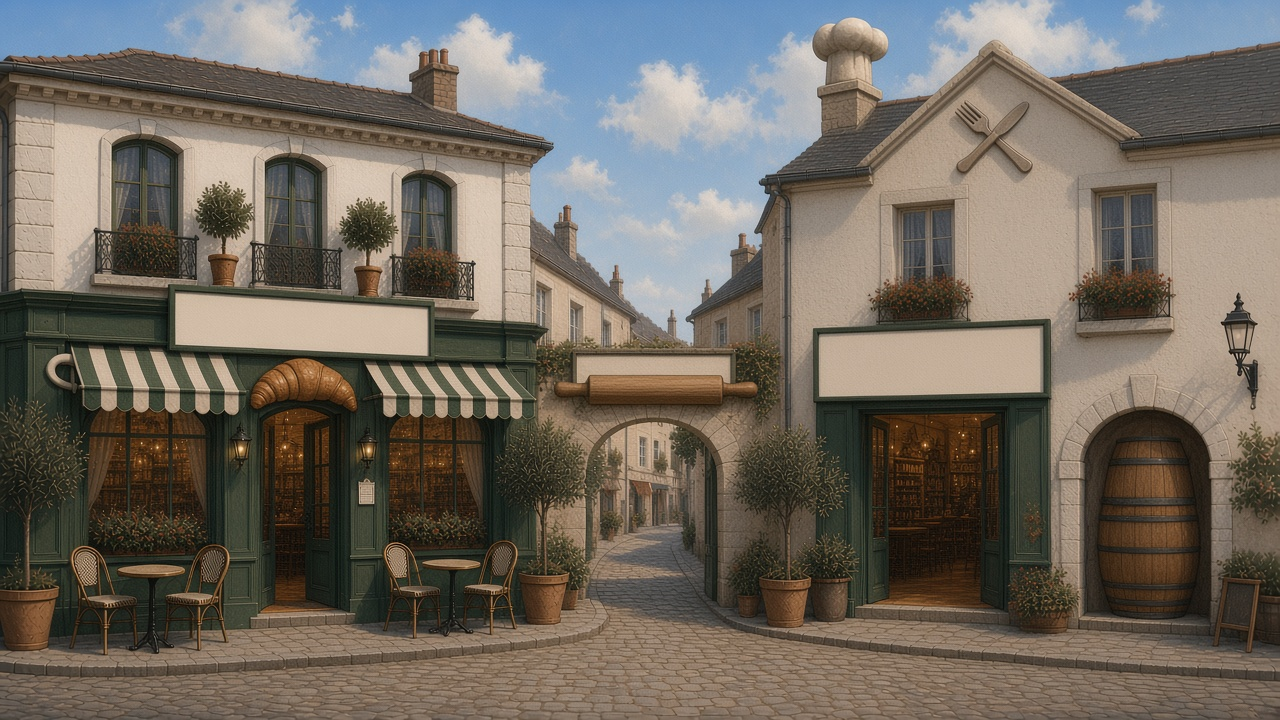
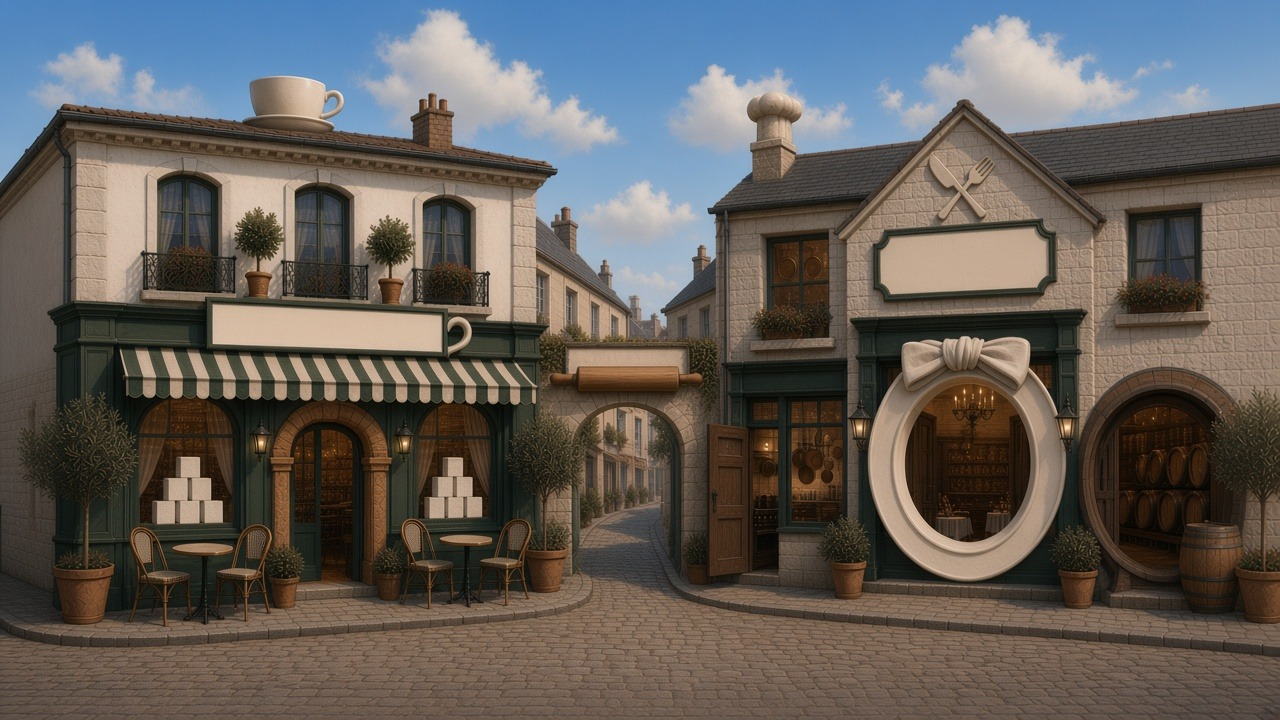
Repaint Rue des Saveurs so the café and restaurant match their exteriors.
The square’s three doors now light the boards that name them, and the cooking-lane link keeps the Place du Grand-Festin stop name.

diff --git a/scripts/test_site.py b/scripts/test_site.py
@@ -200,10 +200,22 @@ def assert_wide_passages():
                 item_center = ((item_box[0] + item_box[2]) / 2, (item_box[1] + item_box[3]) / 2)
                 assert not _point_inside(item_center, polygon), (segment, key, item["word_id"])
     sector = normalize_scene(load(ROOT / "content" / "art" / "S04_sector" / "hotspots.json"))
-    street = next(link for link in sector["links"] if link["kind"] == "street")
-    assert street["polygon"]
-    street_width = max(point[0] for point in street["polygon"]) - min(point[0] for point in street["polygon"])
-    assert street_width >= int(sector["width"] * 0.15)
+    # The repainted arch is a narrow opening under its own board, not a wide polygon.
+    expected_signs = {
+        "B08_cafe": "cafe_name",
+        "B09_restaurant": "resto_name",
+        "ST_cooking_seg001": "lane_name",
+    }
+    by_target = {link["target"]: link for link in sector["links"]}
+    for target, sign_id in expected_signs.items():
+        link = by_target[target]
+        assert link["signed_by"] == sign_id
+        assert sector["text_areas"][sign_id]["text"]
+        box = link["box"]
+        width, height = box[2] - box[0], box[3] - box[1]
+        assert width >= 80 and height >= 180, (target, width, height)
+    street = by_target["ST_cooking_seg001"]
+    assert street["name"] == "Place du Grand-Festin"
     room = normalize_scene(load(ROOT / "content" / "art" / "R_resto_room" / "hotspots.json"))
     door = next(link for link in room["links"] if link["kind"] == "door")
     arch = next(link for link in room["links"] if "rch" in link["label"].lower())
@@ -431,6 +443,14 @@ def main():
     assert sector["description_fr"].startswith("La terrasse")
     cooking = next(link for link in sector["scene"]["links"] if link["target"] == "ST_cooking_seg001")
     assert cooking["name"] == "Place du Grand-Festin"
+    assert cooking["name_en"] == "Great-Feast Square"
+    assert cooking["signed_by"] == "lane_name"
+    scene_areas = sector["scene"]["text_areas"]
+    assert scene_areas["cafe_name"]["text"] == "Café de la Place"
+    assert scene_areas["resto_name"]["text"] == "Restaurant Le Bon Goût"
+    assert scene_areas["lane_name"]["text"] == "Ruelle des Gourmets"
+    assert sector["scene"]["links"][0]["signed_by"] == "cafe_name"
+    assert sector["scene"]["links"][1]["signed_by"] == "resto_name"
     assert sector["scene"]["placeholder"] is False
     link_targets = [link["target"] for link in sector["scene"]["links"]]
     assert link_targets == ["B08_cafe", "B09_restaurant", "ST_cooking_seg001"], link_targets
